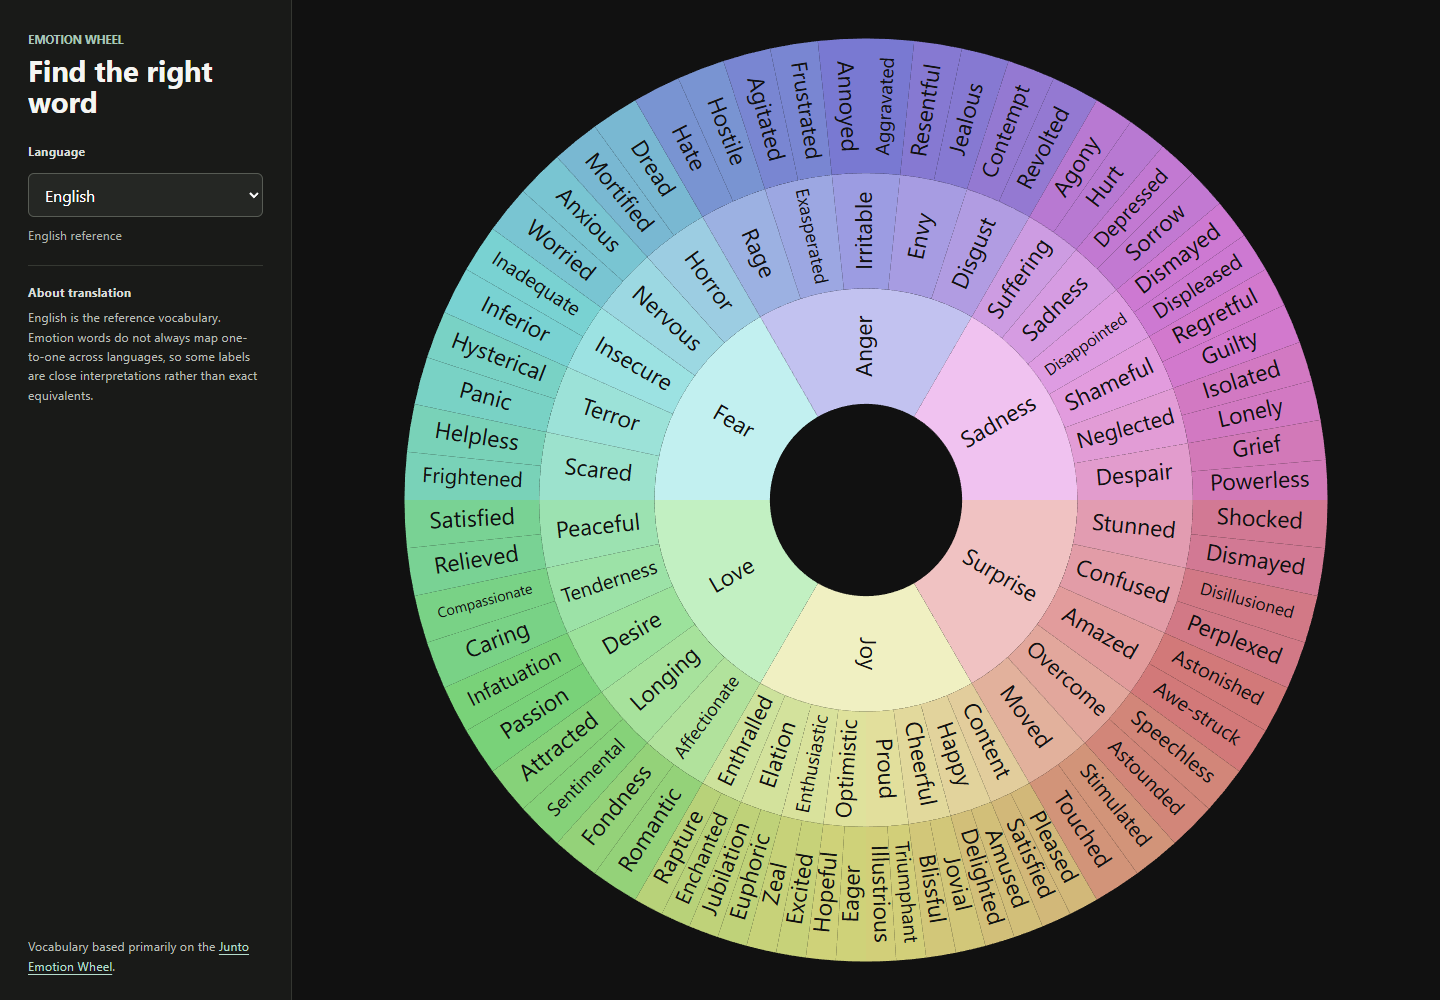
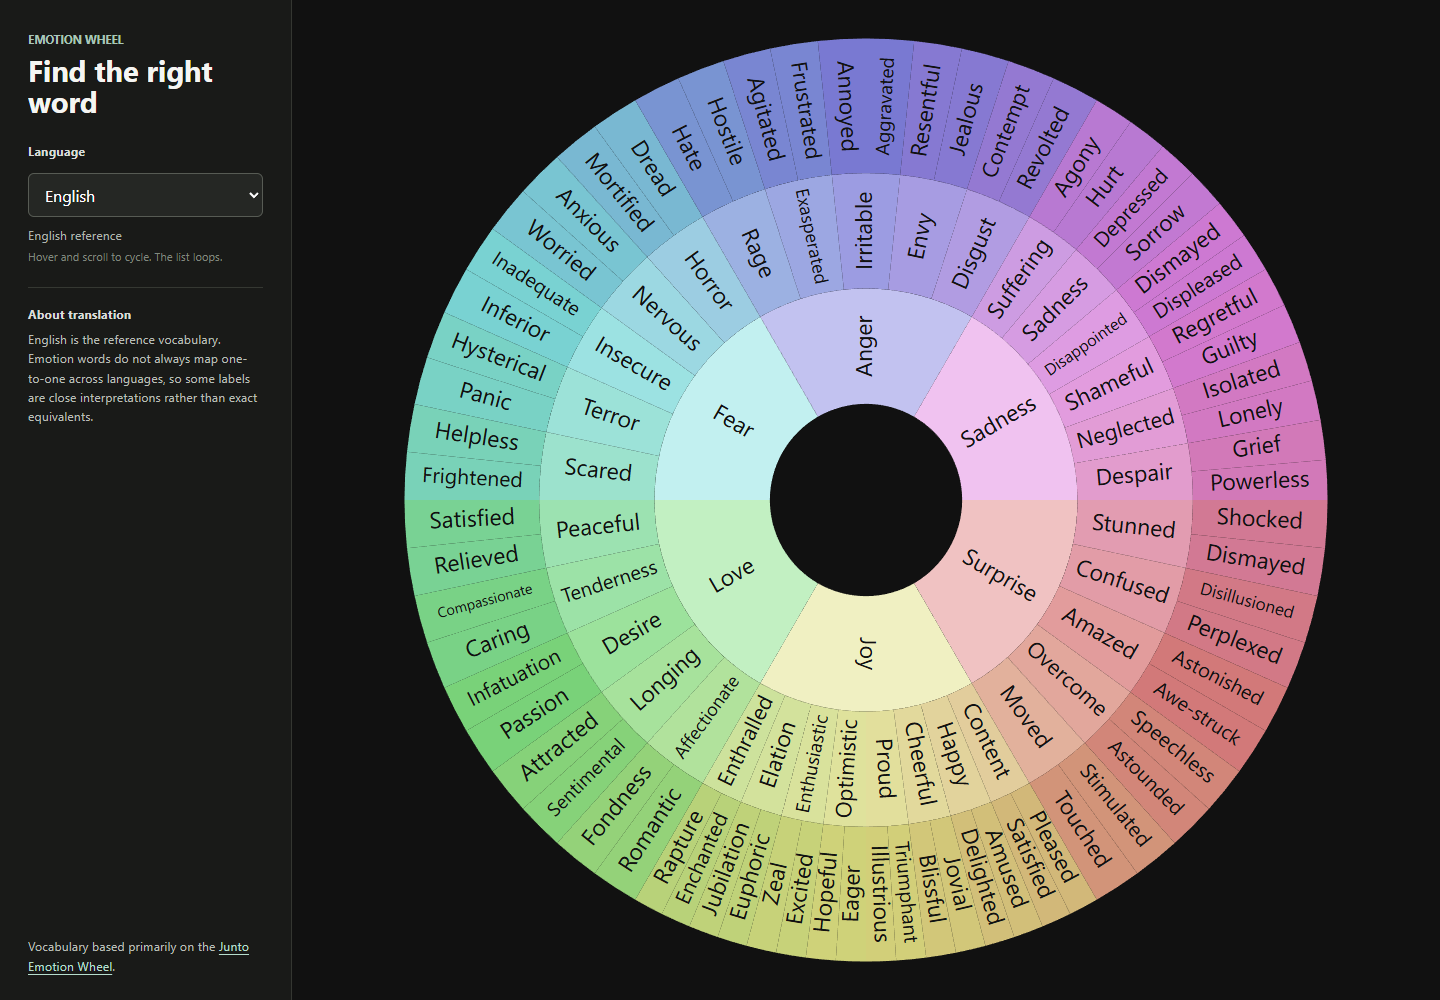
Add looping hover scroll to language selector

Changed region(s): [[0.0, 0.248, 0.1875, 0.434]]

diff --git a/script.js b/script.js
@@ -405,6 +405,34 @@ languageSelect.addEventListener("change", () => {
   sidebarToggle.setAttribute("aria-expanded", "false");
 });
 
+function cycleLanguage(direction) {
+  const currentIndex = Math.max(
+    0,
+    languages.findIndex(({ code }) => code === languageSelect.value)
+  );
+  const nextIndex = (currentIndex + direction + languages.length) % languages.length;
+  languageSelect.value = languages[nextIndex].code;
+  setLanguage(languageSelect.value);
+}
+
+let lastLanguageWheelStep = 0;
+languageSelect.addEventListener("wheel", (event) => {
+  event.preventDefault();
+  event.stopPropagation();
+
+  const now = performance.now();
+  if (event.deltaY === 0 || now - lastLanguageWheelStep < 140) return;
+
+  lastLanguageWheelStep = now;
+  cycleLanguage(event.deltaY > 0 ? 1 : -1);
+}, { passive: false });
+
+languageSelect.addEventListener("keydown", (event) => {
+  if (event.altKey || !["ArrowUp", "ArrowDown"].includes(event.key)) return;
+  event.preventDefault();
+  cycleLanguage(event.key === "ArrowDown" ? 1 : -1);
+});
+
 sidebarToggle.addEventListener("click", () => {
   const isOpen = sidebar.classList.toggle("is-open");
   sidebarToggle.textContent = isOpen ? "Close" : "Languages";

diff --git a/index.html b/index.html
@@ -14,8 +14,9 @@
     </div>
 
     <label for="language-select">Language</label>
-    <select id="language-select"></select>
-    <p id="translation-route">English → English</p>
+    <select id="language-select" aria-describedby="language-hint"></select>
+    <p id="translation-route" aria-live="polite">English → English</p>
+    <p id="language-hint">Hover and scroll to cycle. The list loops.</p>
 
     <div class="translation-note">
       <h2>About translation</h2>

diff --git a/style.css b/style.css
@@ -75,9 +75,16 @@ h1 {
 }
 
 #translation-route {
-  margin: -4px 0 8px;
+  margin: -4px 0 0;
   color: #aeb5ad;
   font-size: 0.78rem;
+}
+
+#language-hint {
+  margin: -8px 0 8px;
+  color: #80877f;
+  font-size: 0.7rem;
+  line-height: 1.4;
 }
 
 .translation-note {

diff --git a/README.md b/README.md
@@ -31,6 +31,7 @@ This project should therefore be understood as an interface and data-visualizati
 - Supports mouse-wheel zooming.
 - Opens a small label popup when an emotion is clicked.
 - Switches instantly between English, Spanish, French, German, Lithuanian, Japanese, Simplified Chinese, Russian, Persian, and Vietnamese.
+- Cycles languages by scrolling over the selector without clicking, with continuous first-to-last looping.
 - Keeps the canonical English term visible in translated popups and supports shareable `?lang=` URLs.
 - Fits translated labels to their wedges and handles Persian right-to-left text.
 - Can switch between the Junto-derived data and a smaller test tree in the source.
